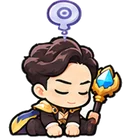
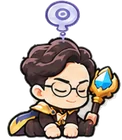
Replace 추진팀장 sprites with the updated sheet and standalone art
- Build all cap_push_* sprites and the bolt effect from 추진팀장 스프라이트 시트2.png
- Use 추진팀장2.png as the standing (idle) sprite, sized to the sheet frame
- Clean the noisy semi-transparent sheet background using the old sheet's
  outline mask; keep the bolt's white core

Claude-Session: https://claude.ai/code/session_01MvzzvQc6xr2KAW6vgqiYJS

Changed region(s): [[0.0492, 0.0, 1.0, 1.0], [0.6885, 0.9209, 0.7131, 0.9784], [0.7131, 0.9784, 0.7377, 1.0]]

diff --git a/tools/build_sprites.py b/tools/build_sprites.py
@@ -225,12 +225,15 @@ with open(os.path.join(OUT, 'manifest.json'), 'w') as f:
 print(len(manifest), 'sprites')
 
 # ───────── 팀장 NPC (추진·개발·사업) ─────────
-def remove_light_bg(im):
+def remove_light_bg(im, lo=232, sat=10):
     """흰/연회색 배경(투명 아님)을 투명으로: 테두리와 연결된 밝은 무채색 영역 + 큰 내부 배경 조각"""
     a = np.array(im.convert('RGBA')).astype(np.int32)
     rgb = a[:, :, :3]
     mx, mn = rgb.max(2), rgb.min(2)
-    light = (mn >= 232) & (mx - mn <= 10)
+    light = (mn >= lo) & (mx - mn <= sat)
+    if lo < 232:
+        # 잡티 섞인 배경: 작은 구멍을 메워 한 덩어리로
+        light = ndimage.binary_closing(light, iterations=2) & (mn >= lo - 20)
     lab, n = ndimage.label(light)
     border = set(np.unique(np.concatenate([lab[0], lab[-1], lab[:, 0], lab[:, -1]]))) - {0}
     sizes = ndimage.sum(light, lab, range(1, n + 1))
@@ -240,9 +243,9 @@ def remove_light_bg(im):
             kill[i] = True
     bg = kill[lab]
     edge = ndimage.binary_dilation(bg, iterations=1) & ~bg
-    soft = edge & (mn >= 200) & (mx - mn <= 18)
+    soft = edge & (mn >= lo - 32) & (mx - mn <= 18)
     alpha = np.where(bg, 0, 255)
-    alpha = np.where(soft, ((255 - mn) * 255 / 55).clip(0, 255), alpha)
+    alpha = np.where(soft, ((255 - mn) * 255 / (255 - lo + 32)).clip(0, 255), alpha)
     a[:, :, 3] = np.minimum(a[:, :, 3], alpha)
     return Image.fromarray(a.astype(np.uint8))
 
@@ -251,7 +254,7 @@ def split4(x, y, w, h):
     return [(int(x + i * q), y, int(q), h) for i in range(4)]
 
 CAPTAINS = {
-    'push': ('추진팀장 스프라이트 시트.png', True, {
+    'push': ('추진팀장 스프라이트 시트2.png', True, {
         'idle': [(23, 10, 199, 245)], 'run': split4(1291, 39, 483, 190),
         'atk': [(24, 256, 185, 220), (220, 257, 192, 217), (418, 241, 226, 234), (626, 263, 239, 211)],
         'hit': (910, 476, 172, 209), 'down': (1070, 530, 222, 150), 'revive': (1285, 406, 215, 300),
@@ -277,8 +280,25 @@ CAPTAINS = {
 CAP_SCALE = 170 / 245  # 모든 프레임 동일 배율
 for team, (fname, needs_bg, B) in CAPTAINS.items():
     sheet = Image.open(os.path.join(SRC, fname))
-    sheet = remove_light_bg(sheet) if needs_bg else sheet.convert('RGBA')
+    if sheet.mode == 'RGBA' and needs_bg:
+        # 반투명 밝은 배경 시트: 흰 바탕에 합친 뒤 배경 제거
+        sheet = Image.alpha_composite(Image.new('RGBA', sheet.size, (255, 255, 255, 255)), sheet)
+    white_sheet = sheet
+    fx_sheet = None
+    if needs_bg and fname.endswith('2.png'):
+        # 같은 배치의 기존 시트(깨끗한 흰 배경)에서 얻은 외곽 마스크로 잡티 배경·글로우 주변 회색을 걷어냄
+        sheet = remove_light_bg(sheet, 214, 9)
+        ref = np.array(remove_light_bg(Image.open(os.path.join(SRC, fname.replace('2.png', '.png')))))[:, :, 3]
+        ref = ndimage.maximum_filter(ref, size=7)
+        a = np.array(sheet); a[:, :, 3] = np.minimum(a[:, :, 3], ref); sheet = Image.fromarray(a)
+        # 하얀 심이 있는 번개 이펙트는 기본 기준으로 (안쪽 흰색 유지)
+        fxa = np.array(remove_light_bg(white_sheet)); fxa[:, :, 3] = np.minimum(fxa[:, :, 3], ref); fx_sheet = Image.fromarray(fxa)
+    elif needs_bg:
+        sheet = remove_light_bg(sheet)
+    else:
+        sheet = sheet.convert('RGBA')
     a = np.array(sheet); a[:, :, 3][a[:, :, 3] < 30] = 0; sheet = Image.fromarray(a)
+    fx_sheet = sheet if fx_sheet is None else fx_sheet
     for i, b in enumerate(B['idle']):
         save(f'cap_{team}_idle_{i}', largest(crop(sheet, *b)), scale=CAP_SCALE, center=True)
     for i, b in enumerate(B['run']):
@@ -291,7 +311,11 @@ for team, (fname, needs_bg, B) in CAPTAINS.items():
     save(f'cap_{team}_revive', largest(crop(sheet, *B['revive']), keep_all=True, dil=8), scale=CAP_SCALE)
     save(f'cap_{team}_icon', largest(crop(sheet, *B['icon'])), height=96)
     save(f'cap_{team}_emblem', largest(crop(sheet, *B['emblem']), dil=8), height=72)
-    save(f'fx_cap_{team}_bolt', largest(crop(sheet, *B['bolt']), dil=8), height=60)
+    save(f'fx_cap_{team}_bolt', largest(crop(fx_sheet, *B['bolt']), dil=8), height=60)
+    if team == 'push':
+        # 추진팀장 기본 서 있는 모습: 단독 일러스트(추진팀장2.png)를 시트 대기 프레임과 같은 키로 맞춤
+        idle_h = round(largest(crop(sheet, *B['idle'][0])).height * CAP_SCALE)
+        save('cap_push_idle_0', largest(load('추진팀장2.png')), height=idle_h, center=True)
 
 # 게임 코드용 목록 갱신
 keys = sorted(k for k in manifest if not k.startswith(('title_', 'tile_', 'intro_', 'diorama')))
